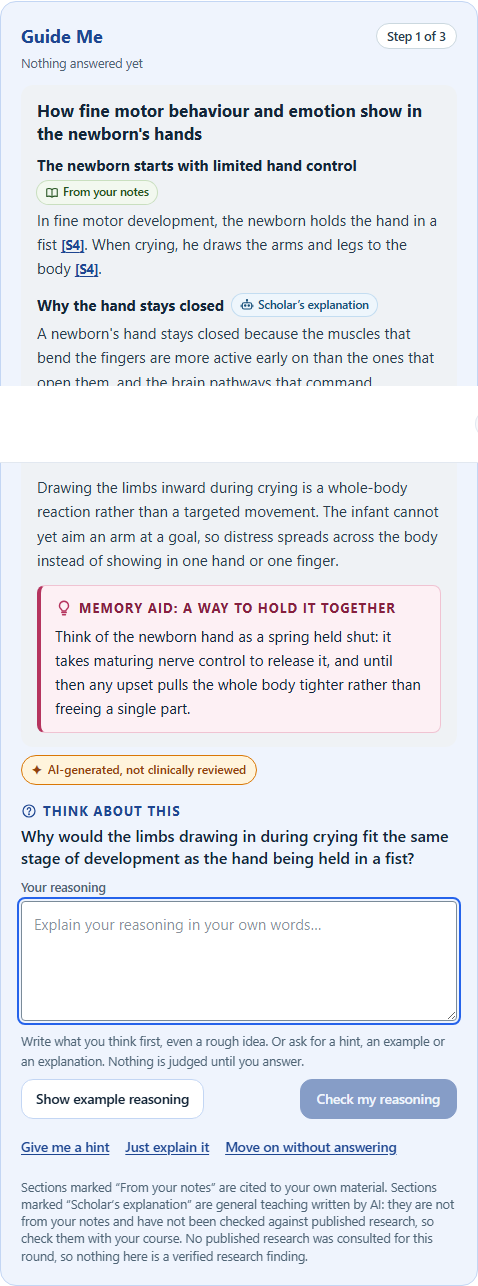
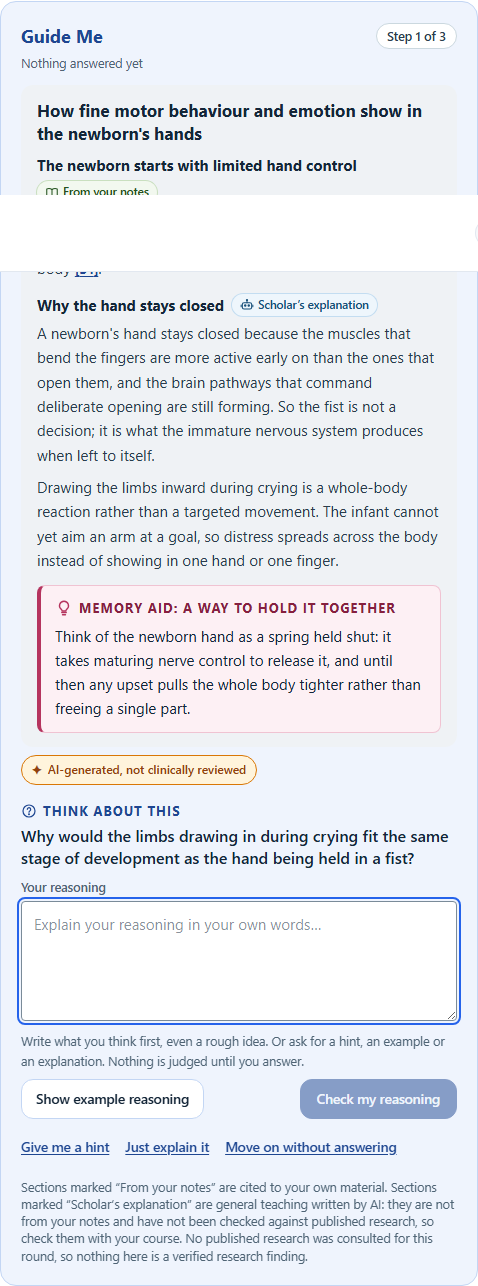
SCHOLAR-GUIDE-ME-001: saved steps come back on opening, under React's double effects

diff --git a/src/app/individual/(app)/[experience]/(scholar)/study/_components/guide-me-panel.tsx b/src/app/individual/(app)/[experience]/(scholar)/study/_components/guide-me-panel.tsx
@@ -50,27 +50,26 @@ export function GuideMePanel({ state, setState, run, busy, disabled, cite, answe
   const statusFromSaved = (r: GuideReply) => { const q = partsOf(r)?.questions[0]?.text; const kept = q ? answeredOf(questionText(q)) : null; return kept === "understood" ? "understood" as const : kept ? "attempted" as const : null; };
 
   // OPENING: every step already saved comes back with no AI, and the learner resumes where they were.
+  const opening = useRef(false);
   useEffect(() => {
-    if (state.opened) return;
-    let live = true;
+    if (state.opened || opening.current) return;
+    opening.current = true;
     void (async () => {
       setState(s => ({ ...s, opened: true }));
       const first = await ask("teach", 0, {}, true);
-      if (!live || !first) return;
+      if (!first) return;
       const of = first.guide?.of ?? 1, got: Record<number, GuideReply> = {};
       if (first.answer) got[0] = first;
       for (let i = 1; i < of && got[i - 1]; i++) { const r = await ask("teach", i, {}, true); if (r?.answer) got[i] = r; }
-      if (!live) return;
       const status = Array.from({ length: of }, (_, i) => (got[i] ? statusFromSaved(got[i]) ?? "open" : "open") as StepStatus);
       const last = Object.keys(got).map(Number).sort((a, b) => b - a)[0];
       const resume = resumeStep(status);
       setState(s => ({ ...s, of, status, current: last === undefined ? 0 : Math.min(resume, last), finished: false,
         steps: { ...s.steps, ...Object.fromEntries(Object.entries(got).map(([k, v]) => [k, { ...FRESH_STEP, ...(s.steps[Number(k)] ?? {}), reply: v }])) } }));
     })();
-    return () => { live = false; };
-    // Once per lesson, when the panel first opens.
+    // Once per lesson, when the panel first opens. The page keeps what it finds, so leaving the style while it reads loses nothing.
     // eslint-disable-next-line react-hooks/exhaustive-deps
-  }, [state.opened]);
+  }, []);
 
   const teach = async (step: number) => {
     setState(s => ({ ...s, current: step, finished: false }));
@@ -207,7 +206,8 @@ export function GuideMePanel({ state, setState, run, busy, disabled, cite, answe
               <div className="mt-2 flex flex-wrap items-center gap-x-4 gap-y-1">
                 <button type="button" className={learnAction.link} disabled={busy || disabled || here.hints.length >= GUIDE_HINT_LEVELS} onClick={() => void hint()}>{here.hints.length ? GUIDE_COPY.biggerHint : GUIDE_COPY.hint}</button>
                 <button type="button" className={learnAction.link} disabled={busy || disabled} onClick={() => void explain()}>{GUIDE_COPY.explain}</button>
-                <button type="button" className={learnAction.link} disabled={busy} onClick={skip}>{GUIDE_COPY.moveOn}</button>
+                {/* Coming back to a step already dealt with: going on is simply the next step, not moving on without answering. */}
+                <button type="button" className={learnAction.link} disabled={busy} onClick={skip}>{status === "open" || status === "attempted" ? GUIDE_COPY.moveOn : lastStep ? GUIDE_COPY.finish : GUIDE_COPY.next}</button>
               </div>
             )}
           </div>
